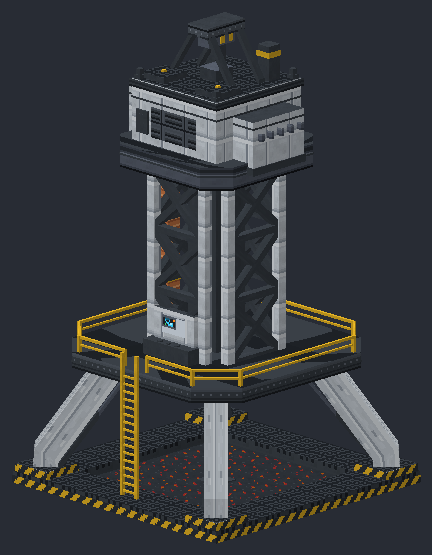
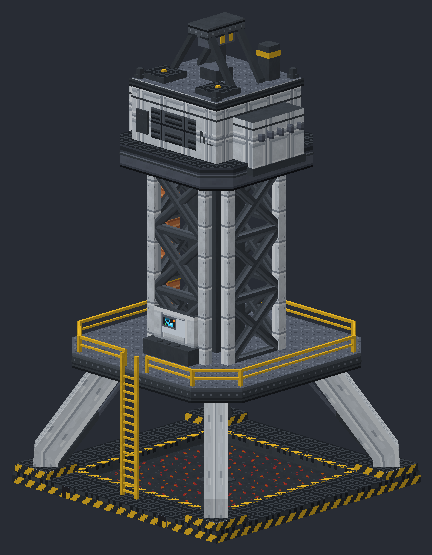
Mega drill detail pass: panels, posts, braces, a heat-tinted emitter, tread plate tiled to the grid, a hazard border round the pit, heat signs and its stencil

diff --git a/art/tools/mega_drill_concept.py b/art/tools/mega_drill_concept.py
@@ -80,12 +80,42 @@ def prism(mat, y1, y2, w, c, top=None, bottom=None, inward=False, v0=None):
             d.quad(mat, [(p0[0], y2, p0[1]), (p1[0], y2, p1[1]), (p1[0], y1, p1[1]), (p0[0], y1, p0[1])],
                    [(0, va), (min(16, u), va), (min(16, u), va + min(16, h)), (0, va + min(16, h))], (nx, 0, nz))
     for cap, y, up in ((top, y2, 1), (bottom, y1, -1)):
-        if cap is None:
-            continue
-        for k in range(1, 7, 2):
-            q = [pts[0], pts[k], pts[k + 1], pts[min(k + 2, 7)]]
-            d.quad(cap, [(x, y, z) for x, z in q], [((x - C) % 16, (z - C) % 16) for x, z in q], (0, up, 0))
-        d.quad(cap, [(x, y, z) for x, z in (pts[0], pts[7], pts[7], pts[0])], UV, (0, up, 0))
+        if cap is not None:
+            tiled_cap(cap, pts, y, up)
+
+
+def clip(poly, a, b):
+    """Keeps the part of a polygon on the left of the line a to b (one step of clipping to a convex shape)."""
+    out = []
+    for i in range(len(poly)):
+        p, q = poly[i], poly[(i + 1) % len(poly)]
+        sp = (b[0] - a[0]) * (p[1] - a[1]) - (b[1] - a[1]) * (p[0] - a[0])
+        sq = (b[0] - a[0]) * (q[1] - a[1]) - (b[1] - a[1]) * (q[0] - a[0])
+        if sp >= 0:
+            out.append(p)
+        if (sp >= 0) != (sq >= 0):
+            t = sp / (sp - sq)
+            out.append((p[0] + (q[0] - p[0]) * t, p[1] + (q[1] - p[1]) * t))
+    return out
+
+
+def tiled_cap(mat, pts, y, up):
+    """A flat cap over a convex outline, cut into block cells on the grid and each cell clipped to the
+    outline, so its texture shows whole a block at a time, as the grid's flat faces do."""
+    xs, zs = [p[0] for p in pts], [p[1] for p in pts]
+    order = pts if sum((pts[i][0] * pts[(i + 1) % 8][1] - pts[(i + 1) % 8][0] * pts[i][1]) for i in range(8)) > 0 else pts[::-1]
+    for gx in range(int(min(xs) // 16) * 16, int(max(xs)) + 1, 16):
+        for gz in range(int(min(zs) // 16) * 16, int(max(zs)) + 1, 16):
+            cell = [(gx, gz), (gx + 16, gz), (gx + 16, gz + 16), (gx, gz + 16)]
+            for i in range(len(order)):
+                cell = clip(cell, order[i], order[(i + 1) % len(order)])
+                if len(cell) < 3:
+                    break
+            if len(cell) < 3:
+                continue
+            for k in range(1, len(cell) - 1, 2):
+                q = [cell[0], cell[k], cell[k + 1], cell[min(k + 2, len(cell) - 1)]]
+                d.quad(mat, [(x, y, z) for x, z in q], [(x - gx, z - gz) for x, z in q], (0, up, 0))
 
 
 # ---------------------------------------------------------------- the base and the pit
@@ -103,6 +133,14 @@ for xa, xb in zip(steps, steps[1:]):
     d.quad('breeder_graphite', [(hi, RING, xa), (hi, RING, xb), (hi, 1, xb), (hi, 1, xa)], UV, (-1, 0, 0))
     for za, zb in zip(steps, steps[1:]):
         d.quad('drill_melt', [(xa, 1, za), (xb, 1, za), (xb, 1, zb), (xa, 1, zb)], UV, (0, 1, 0))
+
+# A hazard border round the pit's edge, a pixel proud of the ring.
+for x1, z1, x2, z2 in ((lo - 3, lo - 3, hi + 3, lo), (lo - 3, hi, hi + 3, hi + 3), (lo - 3, lo, lo, hi), (hi, lo, hi + 3, hi)):
+    d.box('hazard', x1, RING, z1, x2, RING + 0.4, z2, skip=('down',))
+# Heat warning signs on the base's front, either side of the ladder.
+for sx in (-1, 1):
+    x = C + sx * 34
+    d.box('breeder_fitting', x - 3, 0, -0.4, x + 3, 6, 0, decals={'north': 'drill_heat_sign'}, skip=('south',))
 
 # ---------------------------------------------------------------- the buttress legs
 DECK_Y = 4 * B
@@ -135,14 +173,14 @@ base = [(C - EMIT + 3, DECK_Y - 6, C - EMIT + 3), (C + EMIT - 3, DECK_Y - 6, C -
 tip = (C, tip_y, C)
 for k in range(4):
     a, b = base[k], base[(k + 1) % 4]
-    d.quad('breeder_graphite', [a, b, tip, tip], [(0, 0), (16, 0), (8, 16), (8, 16)],
+    d.quad('drill_emitter', [a, b, tip, tip], [(0, 0), (16, 0), (8, 16), (8, 16)],
            ((a[0] + b[0]) / 2 - C, -0.7 * EMIT, (a[2] + b[2]) / 2 - C))
 d.box('glow', C - 2.5, tip_y - 2, C - 2.5, C + 2.5, tip_y + 1, C + 2.5)
 d.box('drill_beam', C - 1.2, 1, C - 1.2, C + 1.2, tip_y - 2, C + 1.2, skip=('up', 'down'))
 d.box('breeder_amber', C - 7, 1, C - 7, C + 7, 1.6, C + 7, skip=('down',))
 
 # ---------------------------------------------------------------- the deck
-prism('drill_band8', DECK_Y, DECK_Y + 8, DECK_W, DECK_C, top='breeder_grate', bottom='breeder_graphite', v0=8)
+prism('drill_band8', DECK_Y, DECK_Y + 8, DECK_W, DECK_C, top='breeder_plinth', bottom='breeder_graphite', v0=8)
 prism('glow', DECK_Y + 3, DECK_Y + 4, DECK_W + 0.3, DECK_C)
 # The handrail round the deck's edge: one run from the right of the ladder's gap, round the deck,
 # back to the left of it, with a post at every corner and either side of the gap.
@@ -175,15 +213,15 @@ for k in range(3):
 # ---------------------------------------------------------------- the column
 COL = (RY, RY + 6 * B)
 for x, z in corners(CW, CC):
-    d.box('drill_casing', x - 2.5, COL[0], z - 2.5, x + 2.5, COL[1], z + 2.5, skip=('down', 'up'))
+    d.box('drill_post', x - 2.5, COL[0], z - 2.5, x + 2.5, COL[1], z + 2.5, skip=('down', 'up'))
 for face, (ax, az, bx, bz) in (('north', (C - CW + CC, C - CW, C + CW - CC, C - CW)), ('south', (C - CW + CC, C + CW, C + CW - CC, C + CW)),
                                ('west', (C - CW, C - CW + CC, C - CW, C + CW - CC)), ('east', (C + CW, C - CW + CC, C + CW, C + CW - CC))):
     normal = {'north': (0, 0, -1), 'south': (0, 0, 1), 'west': (-1, 0, 0), 'east': (1, 0, 0)}[face]
     for ya in range(int(COL[0]), int(COL[1]), 2 * B):
         yb = ya + 2 * B
         for p0, p1 in (((ax, ya, az), (bx, yb, bz)), ((ax, yb, az), (bx, ya, bz))):
-            d.sweep('breeder_graphite', [p0, p1], 1.8, 2.2, lambda i, v=normal: v, closed=False, caps=True)
-        d.sweep('breeder_graphite', [(ax, ya, az), (bx, ya, bz)], 1.8, 2.2, lambda i, v=normal: v, closed=False, caps=True)
+            d.sweep('drill_brace', [p0, p1], 1.8, 2.2, lambda i, v=normal: v, closed=False, caps=True)
+        d.sweep('drill_brace', [(ax, ya, az), (bx, ya, bz)], 1.8, 2.2, lambda i, v=normal: v, closed=False, caps=True)
 d.box('breeder_graphite', C - 10, COL[0], C - 10, C + 10, COL[1], C + 10, skip=('down', 'up'))
 d.box('breeder_amber', C - 10.3, COL[0] + 40, C - 10.3, C + 10.3, COL[0] + 44, C + 10.3, skip=('up', 'down'))
 d.box('breeder_pipe', C + CW + 2, COL[0], C - 6, C + CW + 8, COL[1] + 4, C + 2)
@@ -198,7 +236,7 @@ prism('drill_ring', COLLAR[0], COLLAR[1], 40, 12, top='breeder_grate', bottom='b
 prism('glow', COLLAR[0] + 6.5, COLLAR[0] + 7.5, 40.3, 12)
 HW = 30                 # the housing's half width: a box on the collar, not a round head
 HOUSE = (COLLAR[1], COLLAR[1] + 2 * B)
-d.box('drill_casing', C - HW, HOUSE[0], C - HW, C + HW, HOUSE[1], C + HW, top='breeder_grate', skip=('down',))
+d.box('drill_panel', C - HW, HOUSE[0], C - HW, C + HW, HOUSE[1], C + HW, top='breeder_plinth', skip=('down',))
 d.box('drill_band8', C - HW - 1, HOUSE[1] - 8, C - HW - 1, C + HW + 1, HOUSE[1], C + HW + 1, skip=('down', 'up'))
 outline(C - HW, HOUSE[1] - 10, C - HW, C + HW, HOUSE[1] - 9, C + HW, 'glow')
 # A louvred vent two blocks wide in the front and back faces.
@@ -206,13 +244,15 @@ for face, z, push in (('north', C - HW, -0.3), ('south', C + HW, 0.3)):
     a1, a2 = sorted((z, z + push))
     d.box('drill_vent', C - B, HOUSE[0] + 4, a1, C, HOUSE[0] + 20, a2, skip=face_only(face))
     d.box('drill_vent', C, HOUSE[0] + 4, a1, C + B, HOUSE[0] + 20, a2, skip=face_only(face))
+# The drill's number stencilled on the front, left of the vents.
+d.box('drill_panel', C - 29, HOUSE[0] + 9, C - HW - 0.3, C - 17, HOUSE[0] + 15, C - HW, decals={'north': 'drill_stencil'}, skip=('south',))
 # An inspection hatch on the front, a small window onto the generator glowing inside.
 d.box('breeder_graphite', C + 18, HOUSE[0] + 5, C - HW - 1, C + 26, HOUSE[0] + 17, C - HW, skip=('south',))
 d.box('drill_window', C + 19.5, HOUSE[0] + 7, C - HW - 1.3, C + 24.5, HOUSE[0] + 15, C - HW - 1, skip=('south',))
 # Generator pods on the flanks: boxes with cooling fins, a graphite base and a cyan line.
 for sx in (-1, 1):
     x1, x2 = sorted((C + sx * HW, C + sx * (HW + 14)))
-    d.box('drill_casing', x1, HOUSE[0] - 4, C - 18, x2, HOUSE[0] + 22, C + 18, top='breeder_graphite')
+    d.box('drill_panel', x1, HOUSE[0] - 4, C - 18, x2, HOUSE[0] + 22, C + 18, top='breeder_graphite')
     d.box('breeder_graphite', min(x1, x2) - 0.5, HOUSE[0] - 6, C - 18.5, max(x1, x2) + 0.5, HOUSE[0] - 2, C + 18.5)
     outline(x1, HOUSE[0] + 18, C - 18, x2, HOUSE[0] + 19, C + 18, 'glow')
     fx = C + sx * (HW + 14)

diff --git a/art/tools/drill_textures.py b/art/tools/drill_textures.py
@@ -17,6 +17,16 @@ textures drawn at their height, round parts change only down their height.
   light plating with a lit edge, a recessed groove down the middle and bolts every 8 pixels.
 - window (lit): a head window onto the beam generator: its coils glowing orange behind the glass,
   dark bars between them, a pale glint across the top corner.
+- panel: the mega drill's housing and pods, a designed plate a block each: an inset, a lit bevel,
+  a shadowed foot and a screw in each corner.
+- post: the column's posts, a block each: lit on the left, shadowed on the right, a joint with two
+  bolts at each block.
+- brace: the lattice's X braces, drawn for swept bars (v across): graphite, lit along one edge,
+  shadowed along the other, a bolt hole every 8 pixels down the middle.
+- emitter: the beam emitter's pyramid faces (the tip at the bottom middle): graphite, heat-tinted
+  bronze lower down and glowing orange at the tip, as metal discolours near a hot spot.
+- heat_sign (decal, 6 x 6): a heat warning: a yellow plate with a black border and a black flame.
+- stencil (decal, 12 x 6): the drill's number stencilled in graphite, D-1, as the station's RG-1.
 - crust: the pit while the drill stands idle, the melt cooled to dark glassy rock with faint red
   cracks still glowing in it.
 - melt and beam (animated, lit): the molten pit, dark crust drifting slowly over glowing melt,
@@ -117,6 +127,81 @@ def window():
         t.rect(x, 0, x, 15, 'o')
     for k in range(4):
         t.set(1 + k, 3 - k, 'W')
+    return t
+
+
+def panel():
+    t = Tex()
+    t.rect(0, 0, 15, 15, 'F')
+    t.rect(0, 0, 15, 0, 'A')
+    t.rect(0, 0, 0, 15, 'A')
+    t.rect(15, 0, 15, 15, 'J')
+    t.rect(0, 15, 15, 15, 'J')
+    t.rect(2, 2, 13, 13, 'E')
+    t.rect(2, 2, 13, 2, 'I')
+    t.rect(2, 2, 2, 13, 'I')
+    t.rect(3, 13, 13, 13, 'A')
+    t.rect(13, 3, 13, 13, 'A')
+    for x, y in ((1, 1), (14, 1), (1, 14), (14, 14)):
+        t.set(x, y, 'J')
+    return t
+
+
+def post():
+    t = Tex()
+    t.rect(0, 0, 15, 15, 'E')
+    t.rect(0, 0, 1, 15, 'A')
+    t.rect(14, 0, 15, 15, 'I')
+    t.rect(0, 15, 15, 15, 'J')
+    t.rect(0, 0, 15, 0, 'A')
+    for x in (4, 11):
+        t.set(x, 2, 'J')
+        t.set(x, 13, 'J')
+    return t
+
+
+def brace():
+    t = Tex()
+    for y, c in enumerate(['M', 'b', 'S', 'S', 'S', 'S', 'S', 'S', 'S', 'S', 'S', 'S', 'S', 'S', 'T', 'U']):
+        t.rect(0, y, 15, y, c)
+    for x in (3, 11):
+        t.set(x, 7, 'U')
+        t.set(x, 8, 'U')
+    return t
+
+
+def emitter():
+    t = Tex()
+    for y, c in enumerate(['b', 'S', 'S', 'S', 'S', 'S', 'S', 'T', 'o', 'o', 'O', 'O', 'r', 'R', 'X', 'e']):
+        t.rect(0, y, 15, y, c)
+    return t
+
+
+def heat_sign():
+    t = Tex(6, 6)
+    t.rect(0, 0, 5, 5, 'B')
+    t.rect(1, 1, 4, 4, 'Y')
+    for x, y in ((3, 1), (2, 2), (3, 2), (2, 3), (3, 3), (4, 3), (1, 4), (2, 4), (3, 4), (4, 4)):
+        t.set(x, y, 'B')
+    return t
+
+
+GLYPHS = {
+    'D': ['110', '101', '101', '101', '110'],
+    '-': ['000', '000', '111', '000', '000'],
+    '1': ['010', '110', '010', '010', '111'],
+}
+
+
+def stencil():
+    t = Tex(12, 6)
+    x0 = 1
+    for ch in 'D-1':
+        for y, row in enumerate(GLYPHS[ch]):
+            for x, bit in enumerate(row):
+                if bit == '1':
+                    t.set(x0 + x, y, 'S')
+        x0 += 4
     return t
 
 
@@ -227,6 +312,12 @@ TEXTURES = {
     'leg': leg,
     'crust': crust,
     'window': window,
+    'panel': panel,
+    'post': post,
+    'brace': brace,
+    'emitter': emitter,
+    'heat_sign': heat_sign,
+    'stencil': stencil,
     'skirt': skirt,
     'ring': ring,
     'warning': warning,

diff --git a/docs/DESIGN.md b/docs/DESIGN.md
@@ -596,6 +596,7 @@ The mod's own miner: not a box quarry but a drill that melts its way straight do
   - **Upgrades:** drill heads in Mk I, II and III, each crafted from the last and swapped in at the controller (rule 11); speed modules; the filter. Tungsten tips wear as before.
   - **Coolant:** it drinks water to cool the bore, venting steam from its stacks (rule 12), so it needs intake pumps beside it.
   - **Built** like the station: place the controller, feed it the parts, and it builds itself round the pit.
+  - **Detail (4 Oct 2026, the station's treatment, no change to its shape or use):** its own textures (`art/tools/drill_textures.py`): designed panels on the housing and pods (an inset, a lit bevel, corner screws), plated column posts with a joint and bolts each block, graphite X braces with bolt holes, plated legs, the emitter heat-tinted from graphite to bronze to a glowing orange tip, steel tread plate on the deck and the housing's roof (cut to the block grid even round the cut corners), a hazard border round the pit, heat warning signs on the base's front, and the drill's number stencilled on the housing (D-1, as the station's RG-1).
   - **Effects (first plan, 4 Oct 2026):** running, the pit is molten (an animated texture, dark crust drifting over glowing melt, `drill/melt`) and the beam a flickering white-hot core between cyan edges (`drill/beam`), both lit; embers and sparks jump from the pit and smoke and steam rise through the open base (lava, campfire smoke and cloud particles, a few a second, so it stays cheap); the emitter's tip pulses as it fires; the head's windows glow amber onto the generator; the light lines are lit; and the pit's blocks give off light, so the base glows at night. Idle, the pit crusts over to dark glassy rock with red cracks still glowing (`drill/crust`), the beam goes out, and the windows and lines go dim. Steam puffs from the coolant duct's vent when the bore takes water. Sound: a deep drone looped on the client and pitched by speed, with a crackle as each layer gives way (the user sources recordings). Renders: `art/concepts/mega_drill.png` (running) and `mega_drill_idle.png`.
   - **The deep bore (the user's idea, 4 Oct 2026; balance to settle):** once the chunk is mined to bedrock the drill does not stop: its beam bores on through bedrock into the deep crust below the world, where it breaks no more blocks and brings up ore at better rates than the chunk gave. It is the drill's endgame, so a finished drill is never junk (rule 4). Real basis, honestly fudged: the deep crust is denser and richer in heavy metals than the surface, and real superdeep boreholes (the deepest reach about 12 km) found hot, mineral-rich brines; the fudge is reaching it, and what it yields. Balancing ideas, to choose from in play:
     - **The drill head sets what it reaches:** a Mk I head brings up only the common ores, a Mk II adds uranium, lead, silver and the gems, a Mk III the rare ones (tungsten, monazite). So deep boring is a reason to keep upgrading.
